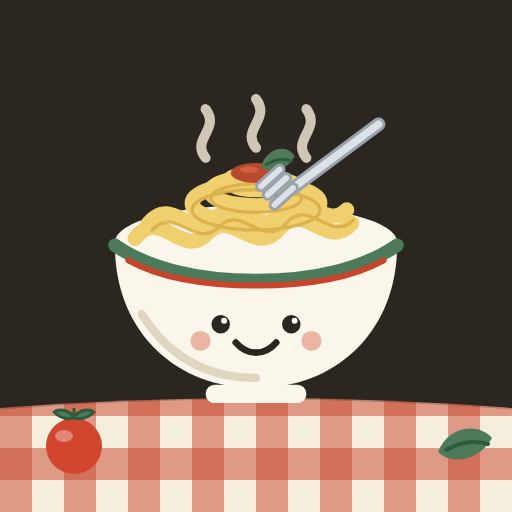
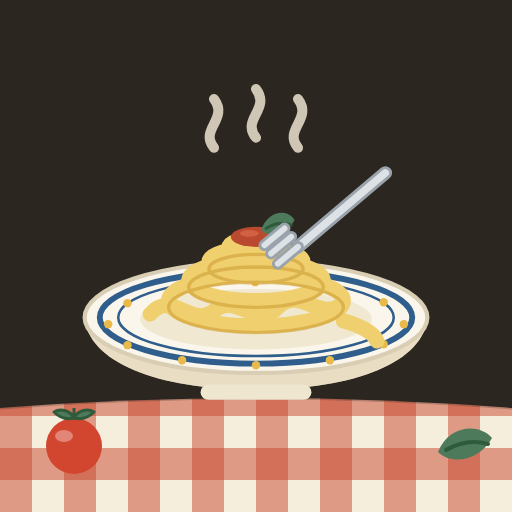
a

Changed region(s): [[0.1562, 0.1562, 0.8438, 0.8125], [0.375, 0.1875, 0.4375, 0.3125]]

diff --git a/index.html b/index.html
@@ -408,8 +408,8 @@
 <body>
 <div id="app">
   <header class="app-header">
-    <div class="header-right"><span class="app-version" id="app-version">v8.4</span><button type="button" class="header-btn" id="bug-header-btn" aria-label="Report a bug or idea">🐞</button></div>
-    <div class="brand"><svg viewBox="0 0 512 512"><rect width="512" height="512" rx="112" fill="#2B2620"/><defs><clipPath id="rr"><rect width="512" height="512" rx="112"/></clipPath> <pattern id="gh" width="64" height="64" patternUnits="userSpaceOnUse"><rect width="64" height="64" fill="#F6EEDC"/><rect width="32" height="64" fill="#C8452D" opacity=".5"/><rect width="64" height="32" fill="#C8452D" opacity=".5"/></pattern></defs><g clip-path="url(#rr)"><path d="M0 408 Q256 388 512 408 V512 H0Z" fill="url(#gh)"/><path d="M0 408 Q256 388 512 408" fill="none" stroke="#2B2620" stroke-opacity=".25" stroke-width="3"/></g><g transform="translate(256 262) scale(.9) translate(-256 -256)"> <!-- steam --> <g fill="none" stroke="#EDE3D0" stroke-width="12" stroke-linecap="round" opacity=".85"> <path d="M196 132c-18-22 18-34 0-58"/> <path d="M256 120c-18-22 18-34 0-58"/> <path d="M316 132c-18-22 18-34 0-58"/> </g> <!-- bowl back rim --> <ellipse cx="256" cy="232" rx="168" ry="44" fill="#FAF6EC"/> <!-- spaghetti pile --> <g fill="none" stroke="#F0CF6E" stroke-width="18" stroke-linecap="round"> <path d="M112 228c30-40 56 26 86-6s56 30 86-6 56 28 86-6" /> <path d="M128 210c28-34 52 22 80-6s52 26 80-6 50 22 76-4"/> <ellipse cx="256" cy="186" rx="76" ry="24"/> <ellipse cx="256" cy="172" rx="54" ry="17"/> <ellipse cx="256" cy="160" rx="32" ry="10"/> </g> <g fill="none" stroke="#C8962A" stroke-width="4" stroke-linecap="round" opacity=".5"> <ellipse cx="256" cy="194" rx="76" ry="24"/> <ellipse cx="256" cy="180" rx="54" ry="17"/> <path d="M132 218c28-30 52 24 80-4s52 28 80-4 52 24 80-4"/> </g> <!-- sauce and basil --> <ellipse cx="256" cy="150" rx="30" ry="12" fill="#B94A2F"/> <ellipse cx="248" cy="146" rx="11" ry="4" fill="#D8674A" opacity=".8"/> <path d="M262 142c8-24 32-26 40-12-10 18-30 22-40 12z" fill="#4D7A5A"/> <path d="M268 140c10-6 20-8 30-4" stroke="#2F5A3C" stroke-width="3.5" fill="none" stroke-linecap="round"/> <!-- bowl body --> <path d="M88 236c0 100 70 170 168 170s168-70 168-170c-40 28-100 42-168 42S128 264 88 236z" fill="#FAF6EC"/> <path d="M88 236c40 28 100 42 168 42s128-14 168-42" fill="none" stroke="#4D7A5A" stroke-width="16" stroke-linecap="round"/><path d="M104 254c36 20 90 30 152 30s116-10 152-30" fill="none" stroke="#C8452D" stroke-width="7" stroke-linecap="round"/> <path d="M120 318c34 54 82 76 136 76" fill="none" stroke="#D9CDB4" stroke-width="10" stroke-linecap="round" opacity=".8"/> <!-- bowl foot --> <rect x="196" y="402" width="120" height="22" rx="11" fill="#FAF6EC"/> <!-- eyes and smile for cartoon feel --> <circle cx="214" cy="330" r="11" fill="#2B2620"/> <circle cx="298" cy="330" r="11" fill="#2B2620"/> <circle cx="218" cy="326" r="3.5" fill="#fff"/> <circle cx="302" cy="326" r="3.5" fill="#fff"/> <path d="M232 352c14 16 34 16 48 0" fill="none" stroke="#2B2620" stroke-width="8" stroke-linecap="round"/> <circle cx="190" cy="350" r="12" fill="#D8674A" opacity=".45"/> <circle cx="322" cy="350" r="12" fill="#D8674A" opacity=".45"/> <!-- fork twirling the pasta --> <g stroke-linecap="round" stroke-linejoin="round" fill="none"> <line x1="402" y1="92" x2="300" y2="168" stroke="#9AA3AB" stroke-width="16"/> <line x1="402" y1="92" x2="300" y2="168" stroke="#DDE2E6" stroke-width="9"/> <g stroke="#9AA3AB" stroke-width="14"><line x1="292" y1="156" x2="270" y2="176"/><line x1="300" y1="168" x2="278" y2="188"/><line x1="284" y1="146" x2="262" y2="166"/></g> <g stroke="#DDE2E6" stroke-width="7"><line x1="292" y1="156" x2="270" y2="176"/><line x1="300" y1="168" x2="278" y2="188"/><line x1="284" y1="146" x2="262" y2="166"/></g> </g> </g><g><circle cx="74" cy="446" r="28" fill="#D2452E"/><ellipse cx="64" cy="436" rx="9" ry="6" fill="#fff" opacity=".35"/> <path d="M74 418c-4-8-14-10-20-6 6 6 12 8 20 6z M74 418c4-8 14-10 20-6-6 6-12 8-20 6z M74 418l0-10" fill="#4D7A5A" stroke="#2F5A3C" stroke-width="3" stroke-linejoin="round"/></g> <g><path d="M438 452c10-26 40-30 54-14-12 22-40 28-54 14z" fill="#4D7A5A"/><path d="M446 450c14-8 28-10 42-6" stroke="#2F5A3C" stroke-width="4" fill="none" stroke-linecap="round"/></g></svg><h1>Tavola</h1></div>
+    <div class="header-right"><span class="app-version" id="app-version">v8.5</span><button type="button" class="header-btn" id="bug-header-btn" aria-label="Report a bug or idea">🐞</button></div>
+    <div class="brand"><svg viewBox="0 0 512 512"><rect width="512" height="512" rx="112" fill="#2B2620"/><defs><clipPath id="rr"><rect width="512" height="512" rx="112"/></clipPath> <pattern id="gh" width="64" height="64" patternUnits="userSpaceOnUse"><rect width="64" height="64" fill="#F6EEDC"/><rect width="32" height="64" fill="#C8452D" opacity=".5"/><rect width="64" height="32" fill="#C8452D" opacity=".5"/></pattern></defs><g clip-path="url(#rr)"><path d="M0 408 Q256 388 512 408 V512 H0Z" fill="url(#gh)"/><path d="M0 408 Q256 388 512 408" fill="none" stroke="#2B2620" stroke-opacity=".25" stroke-width="3"/></g><g transform="translate(256 262) scale(.9) translate(-256 -256)"> <!-- steam --> <g fill="none" stroke="#EDE3D0" stroke-width="12" stroke-linecap="round" opacity=".85"> <path d="M206 120c-18-22 18-34 0-58"/><path d="M256 108c-18-22 18-34 0-58"/><path d="M306 120c-18-22 18-34 0-58"/> </g> <!-- shallow pasta bowl: underside, rim, well --> <path d="M52 322c4 52 84 86 204 86s200-34 204-86z" fill="#EFE6D0"/> <path d="M52 322c4 52 84 86 204 86s200-34 204-86c-30 20-100 32-204 32S82 342 52 322z" fill="#E4D8BC" opacity=".6"/> <rect x="190" y="402" width="132" height="18" rx="9" fill="#EFE6D0"/> <ellipse cx="256" cy="322" rx="204" ry="66" fill="#FAF6EC"/> <ellipse cx="256" cy="322" rx="204" ry="66" fill="none" stroke="#D9CDB4" stroke-width="5"/> <!-- painted rim --> <ellipse cx="256" cy="322" rx="186" ry="55" fill="none" stroke="#2F5D8C" stroke-width="7"/> <ellipse cx="256" cy="322" rx="164" ry="46" fill="none" stroke="#2F5D8C" stroke-width="3"/> <circle cx="432" cy="330" r="5" fill="#E9B949"/><circle cx="408" cy="354" r="5" fill="#E9B949"/><circle cx="344" cy="373" r="5" fill="#E9B949"/><circle cx="256" cy="379" r="5" fill="#E9B949"/><circle cx="168" cy="373" r="5" fill="#E9B949"/><circle cx="103" cy="355" r="5" fill="#E9B949"/><circle cx="80" cy="330" r="5" fill="#E9B949"/><circle cx="103" cy="305" r="5" fill="#E9B949"/><circle cx="167" cy="286" r="5" fill="#E9B949"/><circle cx="255" cy="280" r="5" fill="#E9B949"/><circle cx="343" cy="286" r="5" fill="#E9B949"/><circle cx="408" cy="304" r="5" fill="#E9B949"/> <!-- well --> <ellipse cx="256" cy="324" rx="138" ry="36" fill="#F1E8D2"/> <!-- spaghetti nest --> <g fill="none" stroke="#F0CF6E" stroke-width="18" stroke-linecap="round"> <path d="M130 318c26-30 50 18 76-4s50 22 76-4 50 18 76-4"/> <ellipse cx="256" cy="302" rx="104" ry="30"/> <ellipse cx="256" cy="278" rx="80" ry="24"/> <ellipse cx="256" cy="256" rx="56" ry="17"/> <ellipse cx="256" cy="238" rx="32" ry="10"/> <path d="M360 326c20 6 36 14 40 24" /> </g> <g fill="none" stroke="#C8962A" stroke-width="4" stroke-linecap="round" opacity=".5"> <ellipse cx="256" cy="310" rx="104" ry="30"/><ellipse cx="256" cy="286" rx="80" ry="24"/><ellipse cx="256" cy="264" rx="56" ry="17"/> </g> <!-- sauce and basil --> <ellipse cx="256" cy="226" rx="30" ry="12" fill="#B94A2F"/> <ellipse cx="248" cy="222" rx="11" ry="4" fill="#D8674A" opacity=".8"/> <path d="M262 218c8-24 32-26 40-12-10 18-30 22-40 12z" fill="#4D7A5A"/> <path d="M268 216c10-6 20-8 30-4" stroke="#2F5A3C" stroke-width="3.5" fill="none" stroke-linecap="round"/> <!-- fork --> <g stroke-linecap="round" stroke-linejoin="round" fill="none"> <line x1="410" y1="150" x2="306" y2="238" stroke="#9AA3AB" stroke-width="16"/> <line x1="410" y1="150" x2="306" y2="238" stroke="#DDE2E6" stroke-width="9"/> <g stroke="#9AA3AB" stroke-width="14"><line x1="298" y1="226" x2="274" y2="246"/><line x1="306" y1="238" x2="282" y2="258"/><line x1="290" y1="216" x2="266" y2="236"/></g> <g stroke="#DDE2E6" stroke-width="7"><line x1="298" y1="226" x2="274" y2="246"/><line x1="306" y1="238" x2="282" y2="258"/><line x1="290" y1="216" x2="266" y2="236"/></g> </g> </g> <g><circle cx="74" cy="446" r="28" fill="#D2452E"/><ellipse cx="64" cy="436" rx="9" ry="6" fill="#fff" opacity=".35"/> <path d="M74 418c-4-8-14-10-20-6 6 6 12 8 20 6z M74 418c4-8 14-10 20-6-6 6-12 8-20 6z M74 418l0-10" fill="#4D7A5A" stroke="#2F5A3C" stroke-width="3" stroke-linejoin="round"/></g> <g><path d="M438 452c10-26 40-30 54-14-12 22-40 28-54 14z" fill="#4D7A5A"/><path d="M446 450c14-8 28-10 42-6" stroke="#2F5A3C" stroke-width="4" fill="none" stroke-linecap="round"/></g></svg><h1>Tavola</h1></div>
   </header>
   <main id="main"><div class="loading">Opening Tavola…</div></main>
   <nav class="tabbar">
@@ -1744,7 +1744,7 @@ async function openExportSheet(){
 }
 
 /* ---------- BUG REPORTS ---------- */
-const APP_VERSION = '8.4';
+const APP_VERSION = '8.5';
 
 function describeView(){
   if(cookIsOpen()) return 'Cooking mode';
